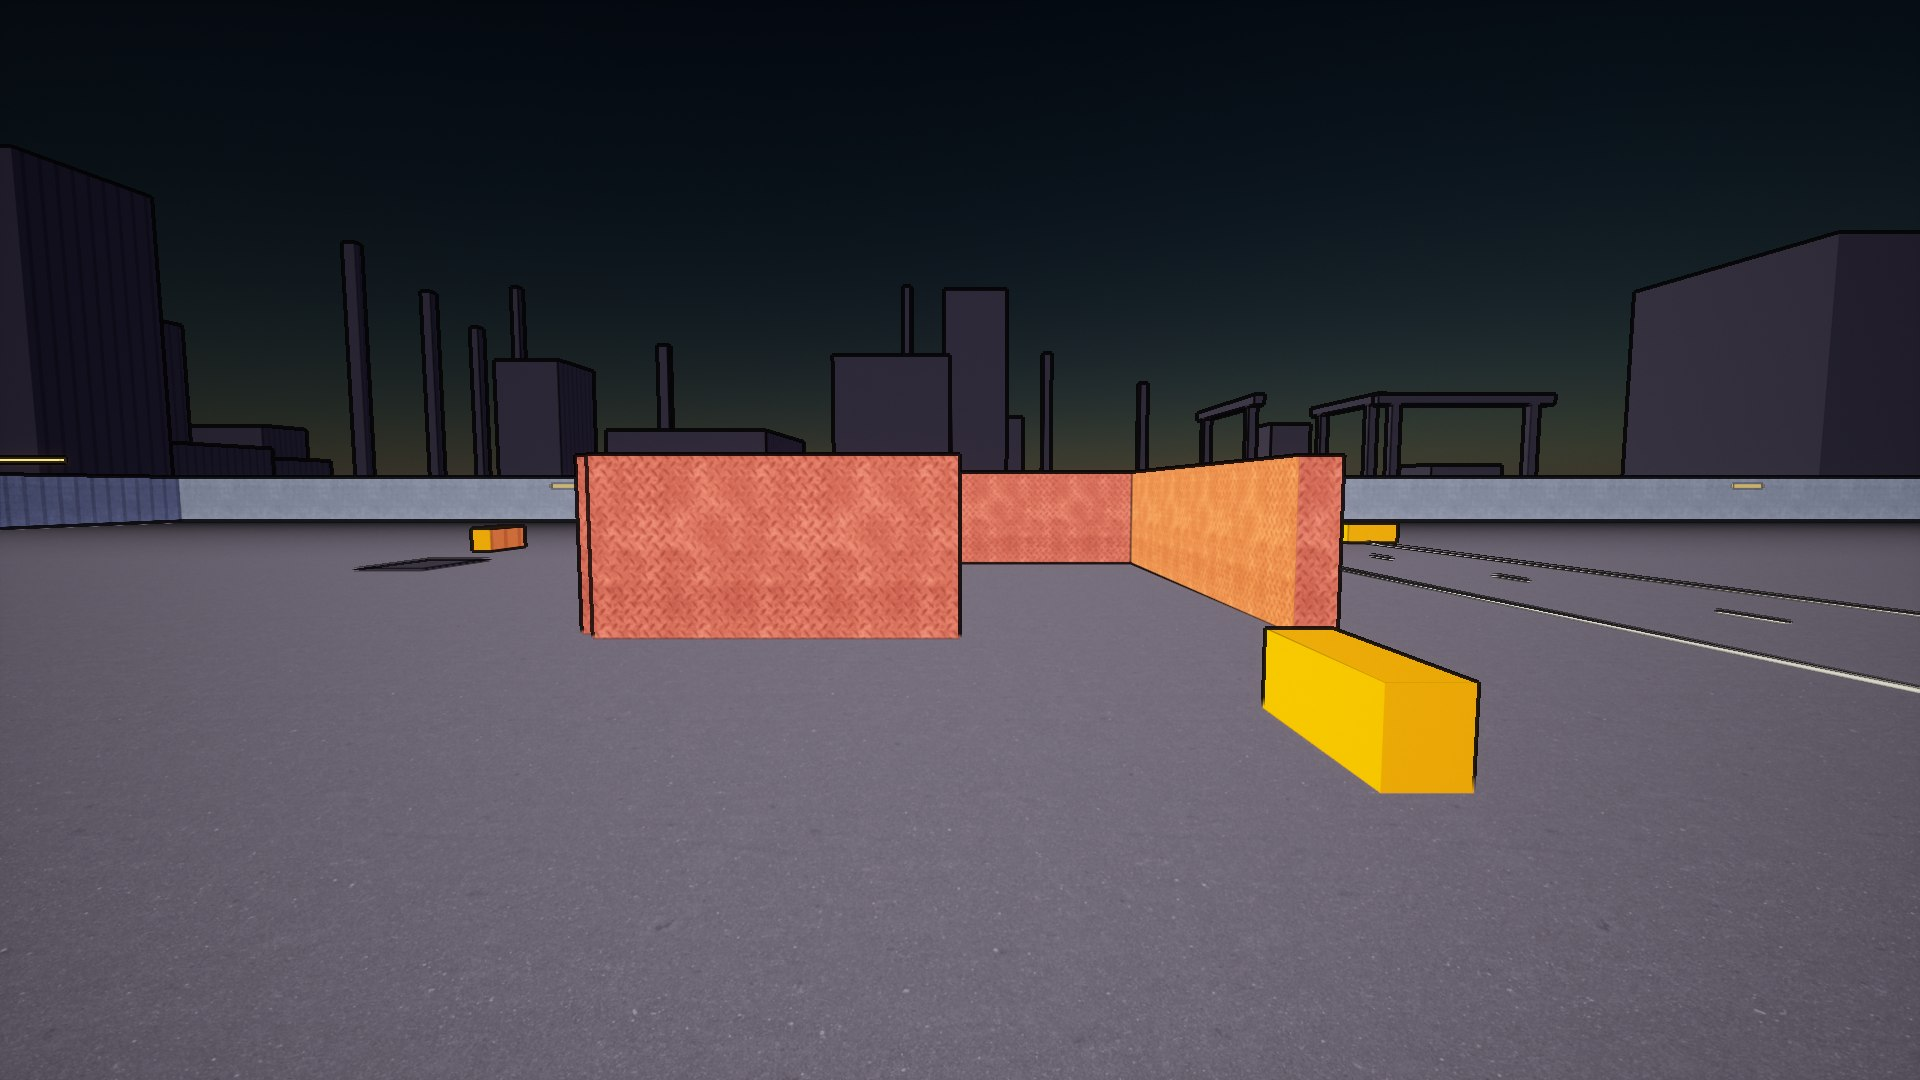
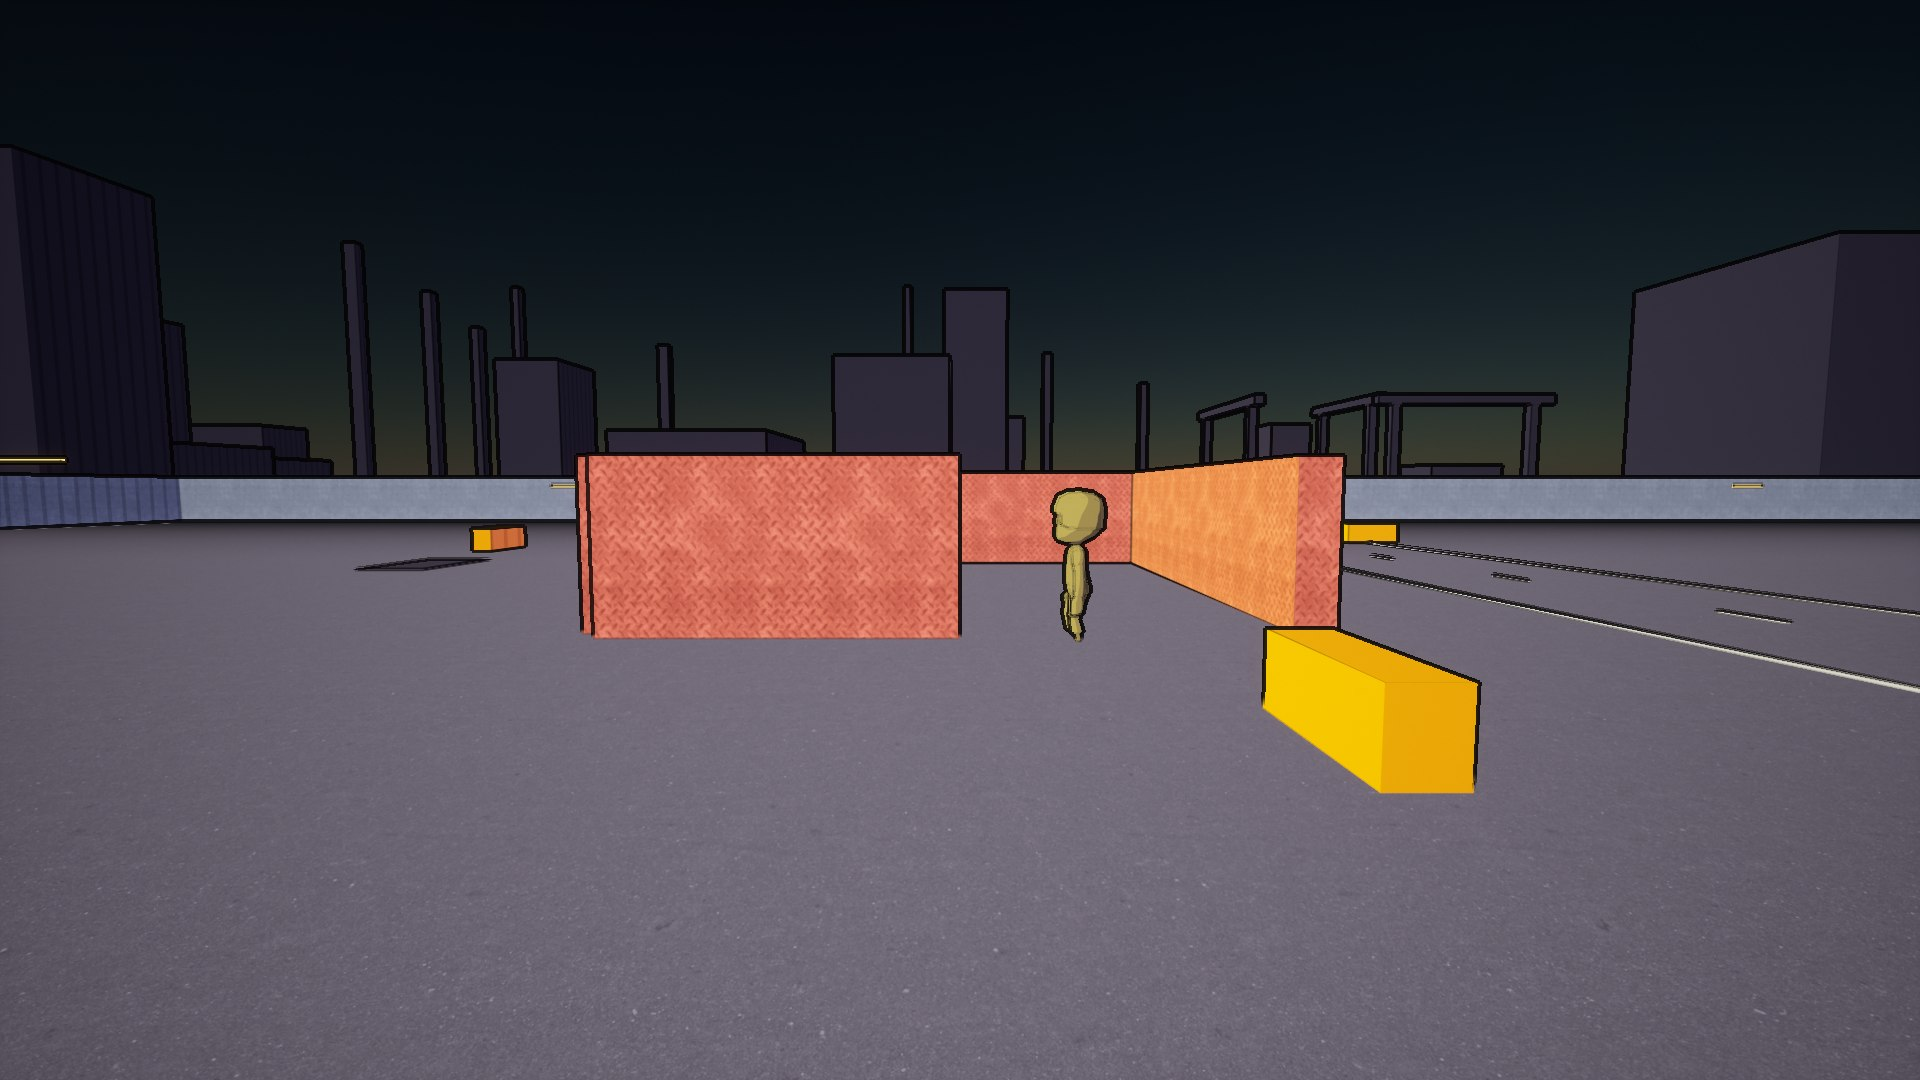
[Repo] Record loop iteration 6 (first inhabitants)

Changed region(s): [[0.5312, 0.4583, 0.5938, 0.5806]]

diff --git a/progress_data.js b/progress_data.js
@@ -50,7 +50,7 @@ window.PROGRESS_DATA = {
         { naam: "Gebouwen (echte kits)", pct: 10 },
         { naam: "Straten / props / decals", pct: 30, notitie: "CC0-props (vaten/barrières/kratten) + Pillow-gegenereerde bezettings-decals (Dominion-posters, hazard-pads, verzets-stencils) — allemaal door de toon-pijplijn, no-collision." },
         { naam: "Bomen / vegetatie", pct: 0, notitie: "Eerste vegetatie Phase 3 (Sylvaris)." },
-        { naam: "Characters / MetaHumans", pct: 0, notitie: "Phase 2→3." },
+        { naam: "Characters / MetaHumans", pct: 12, notitie: "Eerste bewoners: Quaternius CC0-characters (rigged + geanimeerd, Idle-dressing, toon-restyled); squad-body-integratie + MetaHuman-evaluatie volgen." },
         { naam: "Weer & dag/nacht", pct: 0 },
         { naam: "VFX", pct: 0 },
         { naam: "Nanite / Lumen / VSM op target-hardware", pct: 5, notitie: "Sterke PC gemeten: GTX 1080 Ti (11 GB, SM6) — Nanite/VSM/software-Lumen kunnen, géén RT-cores; HWRT-validatie later op RTX-klasse." }
@@ -93,6 +93,13 @@ window.PROGRESS_DATA = {
   screenshotNoot: "Sterke PC (GTX 1080 Ti, SM6) — texture-ronde: CC0-albedo's (asfalt/beton/metaalplaat/golfplaat) door de toon-pijplijn, exposure-neutraal genormaliseerd; skyline + inktlijnen + schemer-mood intact.",
 
   changelog: [
+    { datum: "Sessie 2026-07-23 (loop-iteratie 6 — eerste bewoners)", punten: [
+      "EERSTE CHARACTERS in het district: Quaternius CC0-pack (BlueSoldier M/V + 2 burgers, rigged mét animatiesets incl. Shoot/Death/RecieveHit — de squad-werkwoorden van later) via gdown gedownload en als skeletal meshes geïmporteerd.",
+      "Geplaatst als Idle-figuren: Dominion-enforcers bij poort en checkpoint (goud cel), burgers bij het warehouse (grijs-teal) — visueel niveau, geen AI/collision (Part 9-werk komt later).",
+      "Twee materiaallessen gebankt: skeletal-usage-flag ontbrak (figuren renderden zwart in -game) en bijna-neutrale ×10-paletten wassen naar grijs (enforcer nu verzadigd goud).",
+      "Fab-library: eigenaar ingelogd (Launcher + fab.com); wacht op 'Add to Project'-kliks — monitor vuurt automatisch zodra content in Eclipse/Content landt.",
+      "Groene bar: build ✓, 31/31 ✓, validatie 0 ✓, catalog 19/19 ✓."
+    ]},
     { datum: "Sessie 2026-07-23 (loop-iteratie 5 — bezettings-decals via Pillow)", punten: [
       "PILLOW IN GEBRUIK: Tools/generate_decals.py genereert abstracte luminantie-decals (AEGIS-oog-poster, hazard-strepen, verzets-eclips-stencil) — kleur komt ALTIJD van het palet (Dominion-goud, rebel-rood, amber), dus palet-discipline is structureel geborgd.",
       "Decals geplaatst als no-collision planes: propaganda op de compound-gevels, hazard-pads bij de kruising, stencils bij Entry_Main en op het warehouse — het district vertelt nu bezetting én verzet (15.5/03.3).",

diff --git a/HANDOFF.md b/HANDOFF.md
@@ -162,7 +162,9 @@ The clean mechanism is **git**. The bible + code are already **one repo** (§2),
 
 **Loop-iteratie 5:** Pillow-decals live — generator `Tools/generate_decals.py` (abstract AEGIS-oog, hazard, verzets-eclips; luminantie-only zodat het palet de kleur bepaalt), import + plaatsing als no-collision planes (compound-posters, kruisings-pads, stencils bij Entry_Main/warehouse); gains gemeten (7.8/1.3/7.1). Eigenaar heeft fab.com klaargezet + shortlist ontvangen (Industry Props Pack, modulaire industriële kit, Paragon Lt. Belica, Quixel-decals) — wacht op "Add to library"-kliks + "packs staan erin"-sein.
 
-**Bekende volgende zwakste punten (15.8-lijst):** (1) Quaternius-characterpack (FBX, CC0) als squad/vijand-placeholder-body; (2) particles (vonken/as/embers, Kessara-smog); (3) district-verticaliteit (03.3 layer-cake); (4) zodra Fab-packs in het project staan: de echte kit-pass (graybox-gebouwen vervangen); (5) lit-toon herbeoordelen bij interieur/dag-scène.
+**Loop-iteratie 6:** Quaternius-characters binnen (gdown; BlueSoldier M/V + 2 burgers, volledige animatiesets) en als Idle-figuren geplaatst (enforcers goud bij poort/checkpoint, burgers teal bij warehouse). Lessen: `used_with_skeletal_mesh`-flag verplicht (anders zwart in -game) en verzadigde paletten vereist op de ×10-range. Fab-monitor draait; `_fab_inbox` bestaat; eigenaar is ingelogd op Launcher + fab.com en heeft de klik-route voor "Add to Project".
+
+**Bekende volgende zwakste punten (15.8-lijst):** (1) zodra Fab-packs landen: de kit-pass (graybox-gebouwen vervangen — monitor vuurt vanzelf); (2) squad/vijand-BODY-swap naar Quaternius-meshes in AEclipseCharacter (gameplay-pass mét squad-scenario-suite); (3) meer figuren + patrol-loop (Walk-anim langs de hoofdader); (4) particles (vonken/as); (5) district-verticaliteit (03.3); (6) lit-toon bij interieur/dag.
 
 **Owner-afspraken die blijven gelden (elke sessie):** geen installaties/downloads/acceptatie-prompts zonder expliciet akkoord vooraf (eerst uitleggen waarvoor); bouwen met `-NoUba`; PROGRESS.html nooit bewerken (data in `progress_data.js`; `progress_auto.js` is van de watcher). `gh` is hier NIET geïnstalleerd — push werkt via de vault-token in Windows Credential Manager (username gepind in repo-config).
 
